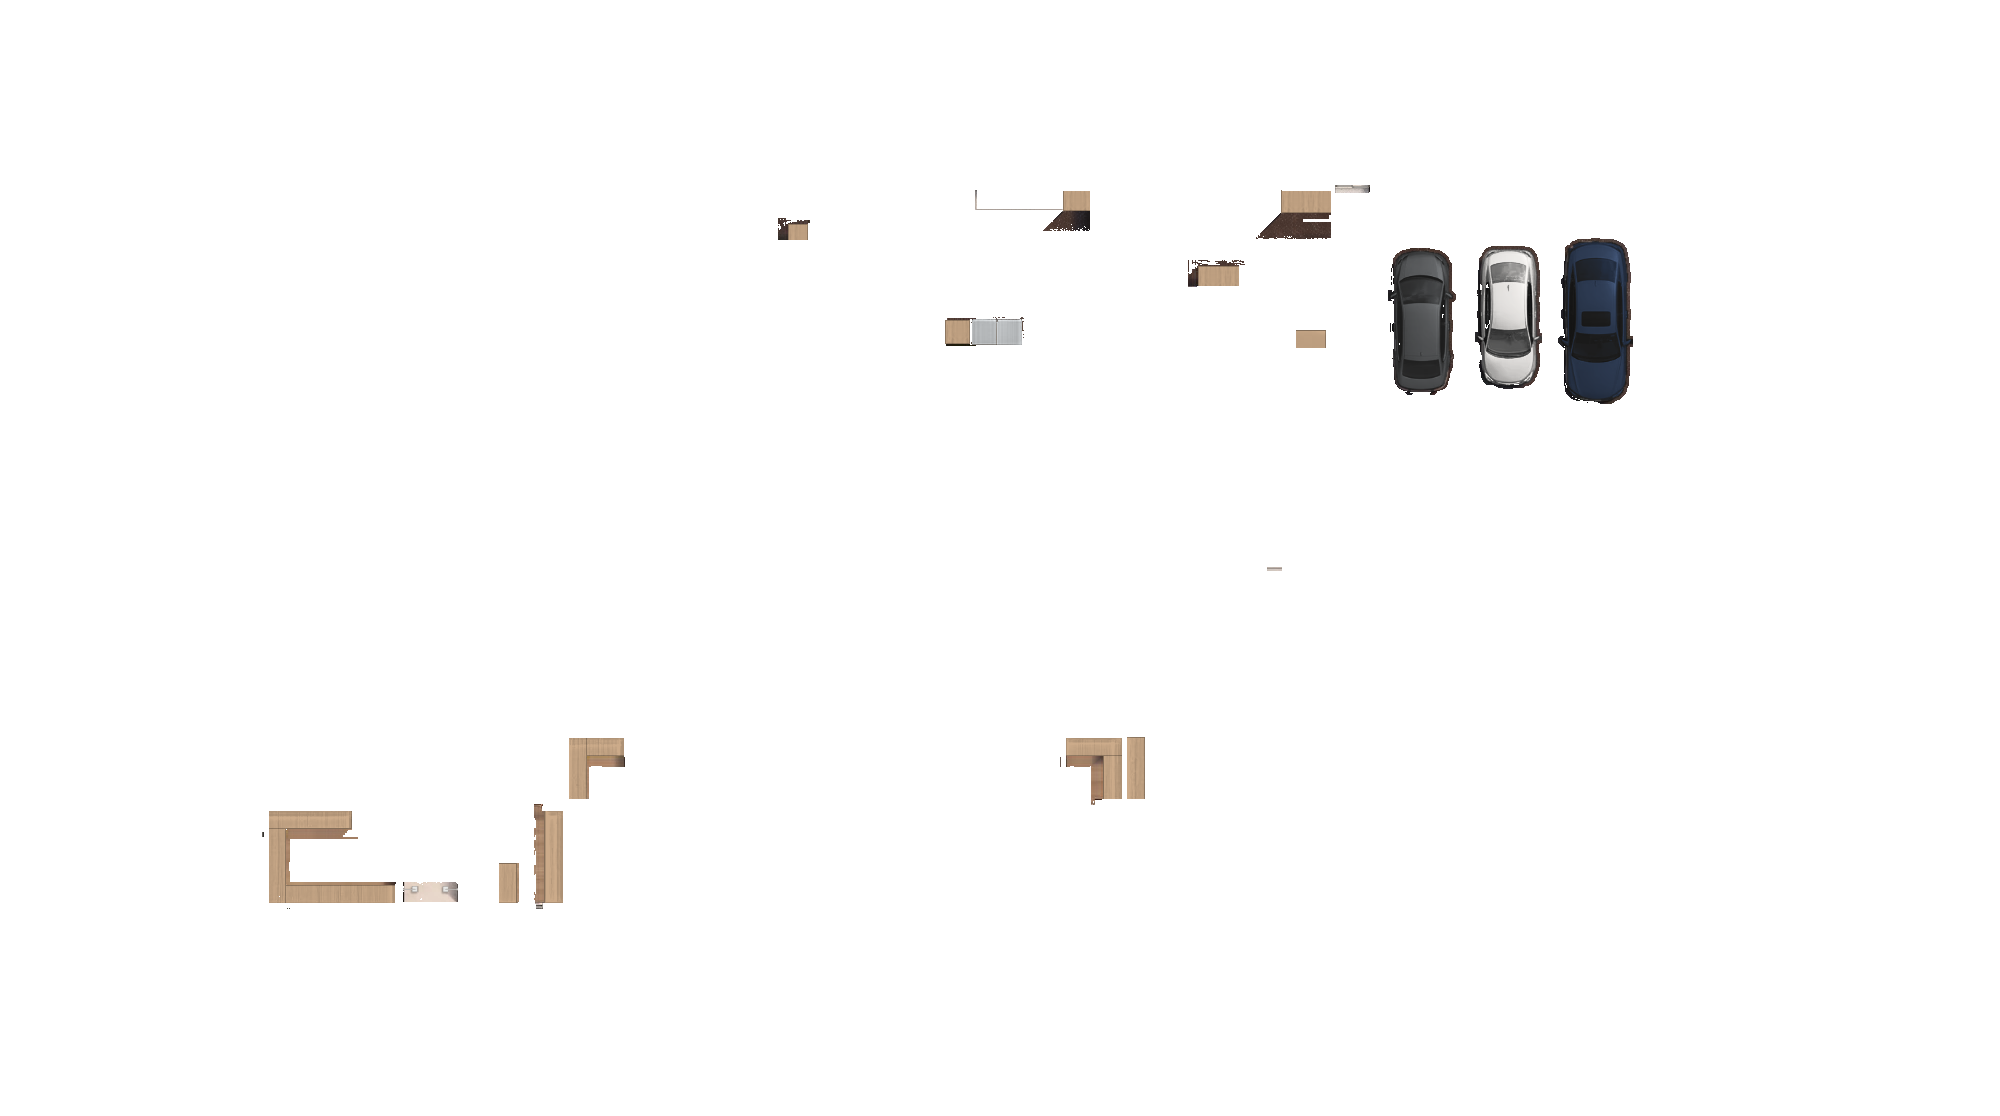
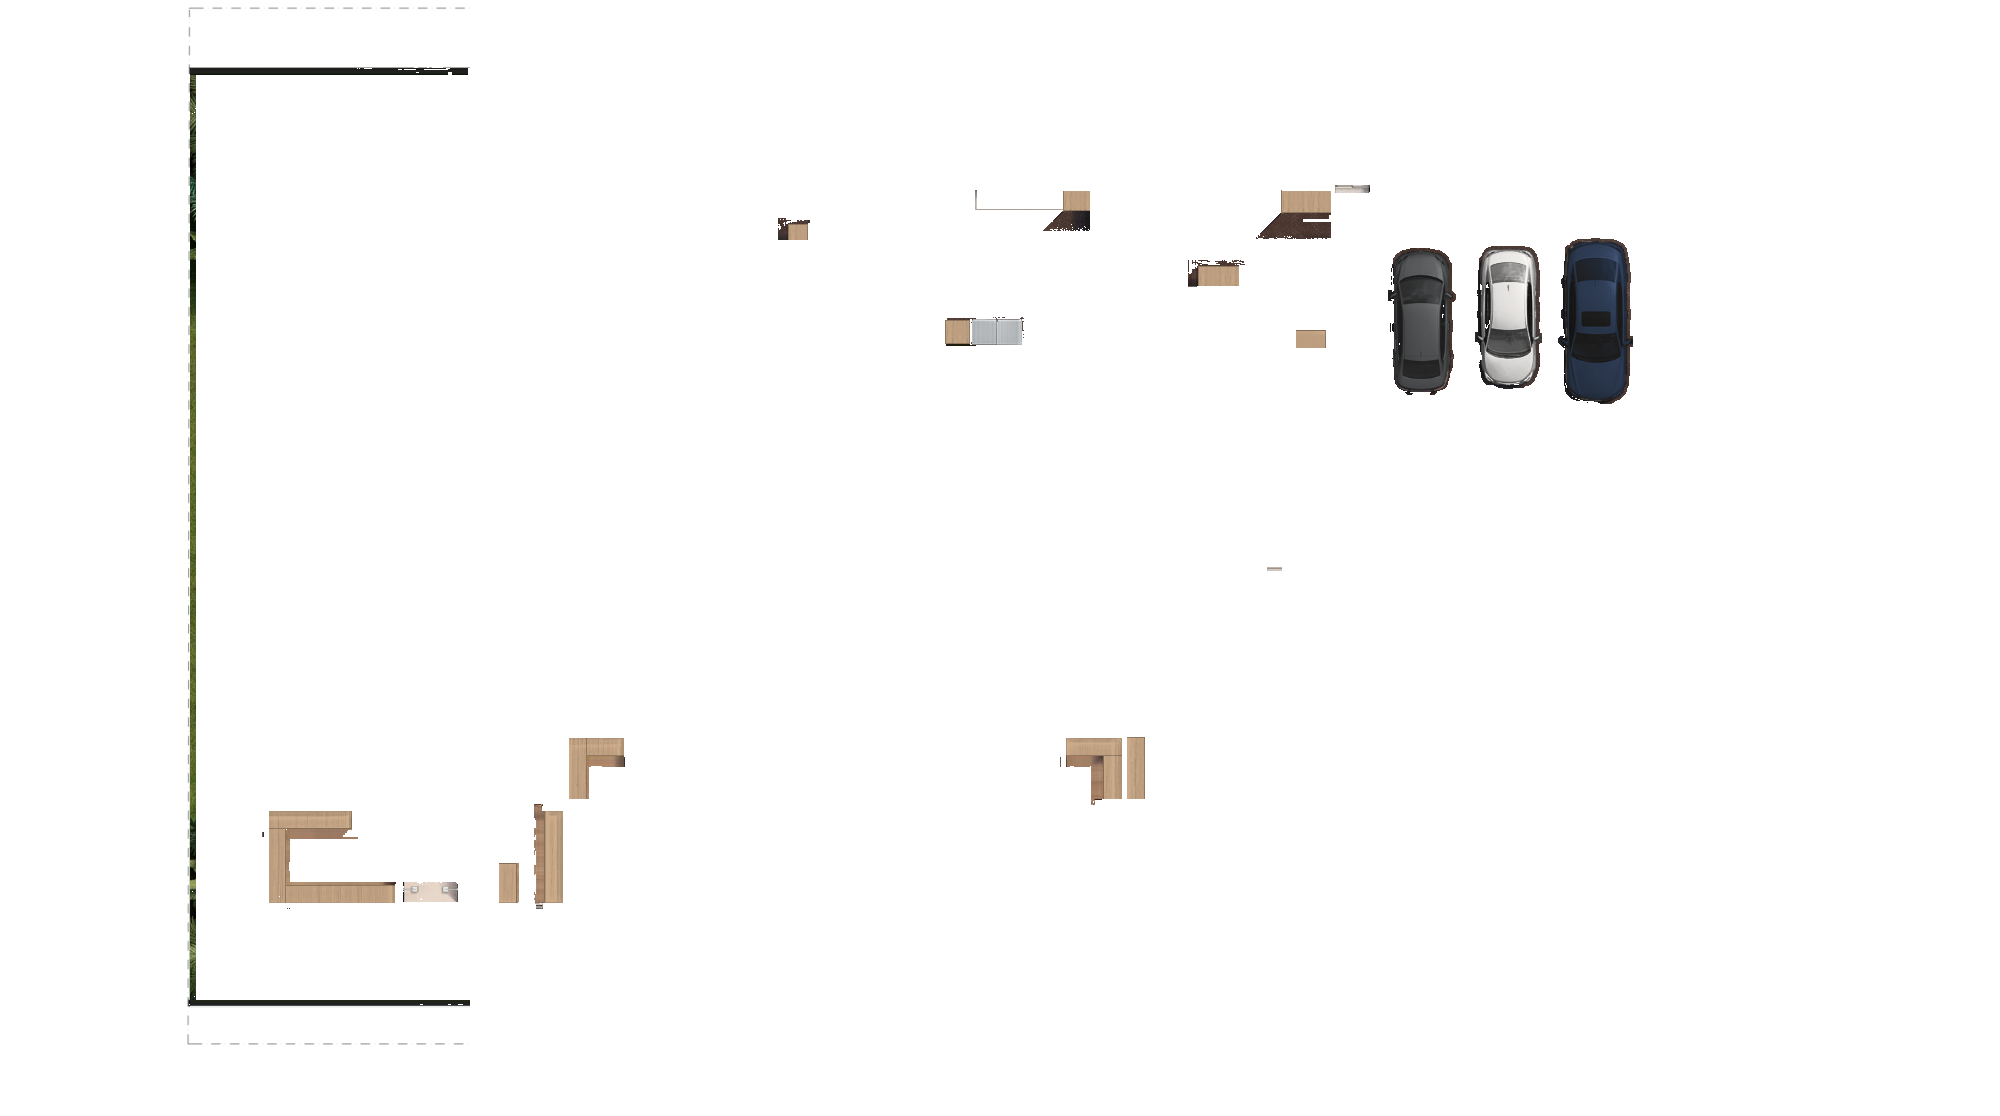
Casa D: erros 1 e 2, muro inventado à esquerda e plantas fora do lote
Claude-Session: https://claude.ai/code/session_01Mm19WX3KoLN1nXMDF5Ay3F

Changed region(s): [[0.093, 0.0609, 0.217, 0.914]]

diff --git a/projetos/POE642_CasaA/scripts/retoque_terreo_casad.py b/projetos/POE642_CasaA/scripts/retoque_terreo_casad.py
@@ -42,6 +42,11 @@ Os itens são corrigidos um a um, na ordem pedida pelo usuário.
    borda misturada), uma curva de tom leva a luminância do prata à da tinta, mantendo a ordem do
    render (vidros mais escuros que a lataria, reflexos); a cor entra só nos tons médios e claros e
    as lanternas ficam.
+8. Erros 1 e 2 da lista (lote): no PDF o lado esquerdo do lote é só a linha tracejada; o motor fez
+   um muro preto. A grama vai até a linha (as colunas do muro vêm das de logo à direita) e fora do
+   lote volta a ser a base (fundo branco e linha tracejada). As plantas dos cantos de cima e de baixo
+   à esquerda, que passavam da linha e dos muros, terminam no lote; os trechos de muro cobertos pelas
+   folhas são refeitos com o perfil de uma coluna limpa do próprio muro.
 
 As coordenadas estão em px do render (2000 x 1116).
 
@@ -187,6 +192,18 @@ CARROS = {
     "quente": 16, "lum_min": 90.0, "claro": 125.0, "fecho": 9, "reflexo": 0.6, "cor_lum": (70.0, 140.0),
     "lanterna": (40, 120),                      # R - B e R mínimos: lanternas e faróis âmbar ficam
 }
+# lote (erros 1 e 2): no PDF o lado esquerdo do lote é só a linha tracejada; o motor fez um muro
+# preto (x 188-195). A grama vai até a linha (as colunas vêm das de logo à direita) e fora do lote
+# volta a ser a base (fundo branco e linha tracejada). As plantas dos cantos de cima e de baixo à
+# esquerda, que passavam da linha e dos muros, terminam no lote: os muros cobertos pelas folhas são
+# refeitos com o perfil de uma coluna limpa do próprio muro
+LOTE = {
+    "x_grama": 190, "faixa_muro": (190, 196), "desloc": 8,
+    "muro_cima": (66, 75), "coluna_cima": 480,
+    "muro_baixo": (1000, 1007), "coluna_baixo": 560,
+    "x_cantos": 470, "y": (0, 1050),
+}
+
 
 def alinhar_base(render):
     """Base 16:9 reduzida e levada ao render por SIFT + afim; também a base chapada (v2)."""
@@ -598,6 +615,25 @@ def carros(out):
     return out
 
 
+def lote(out, base):
+    q = LOTE
+    (c0, c1), (b0, b1) = q["muro_cima"], q["muro_baixo"]
+    xg, xc = q["x_grama"], q["x_cantos"]
+    f0, f1 = q["faixa_muro"]
+    d = q["desloc"]
+    out[c1:b0, f0:f1] = out[c1:b0, f0 + d:f1 + d]                 # muro preto -> grama de logo à direita
+    out[c0:c1, xg - 2:xc] = out[c0:c1, q["coluna_cima"]][:, None]   # muro de cima sem as folhas
+    out[b0:b1, xg - 2:xc] = out[b0:b1, q["coluna_baixo"]][:, None]  # muro de baixo sem as folhas
+    y0, y1 = q["y"]
+    fora = np.zeros(out.shape[:2], bool)
+    fora[y0:y1, :xg] = True
+    fora[y0:c0, :xc] = True
+    fora[b1:y1, :xc] = True
+    out[fora] = base[fora]
+    print(f"    muro da esquerda fora (grama até a linha tracejada); fora do lote: base ({int(fora.sum())} px)")
+    return out
+
+
 def main():
     ap = argparse.ArgumentParser(description=__doc__, formatter_class=argparse.RawDescriptionHelpFormatter)
     ap.add_argument("render", type=Path)
@@ -623,6 +659,10 @@ def main():
     out = porta_gas(out)
     print("[7] carros em tons diferentes")
     out = carros(out)
+
+    print("[8] erros 1 e 2: muro inventado à esquerda e plantas fora do lote")
+    base, _, _ = alinhar_base(orig)
+    out = lote(out, base)
 
     args.saida.mkdir(parents=True, exist_ok=True)
     cv2.imwrite(str(args.saida / f"{args.nome}.png"), out)

diff --git a/projetos/POE642_CasaA/scripts/README.md b/projetos/POE642_CasaA/scripts/README.md
@@ -240,6 +240,7 @@ Mesmo método da Casa C (render retocado sem IA, item por item, na ordem pedida 
 - **Inox:** os dois eletrodomésticos da cozinha mudam só de tom (cor de aço vezes a luminância relativa do render, com riscos verticais sutis); a borda com o granito é mesclada pela luminância.
 - **Porta do abrigo de gás:** a soleira do motor vira o piso do abrigo (espelho) e as duas folhas de correr do PDF são desenhadas em 8x (folha, montantes, contorno e batentes), com sombra curta.
 - **Carros:** curva de tom por carro na silhueta (não-granito: frio ou claro, fechada e preenchida, com a borda), escurecendo ou clareando a luminância do prata; a cor entra só nos tons médios e claros; lanternas (R bem maior que B) ficam.
+- **Lote (erros 1 e 2):** o muro inventado vira grama (colunas de logo à direita); fora do lote, a base alinhada; os muros cobertos por folhas, com o perfil de uma coluna limpa.
 
 ```bash
 python retoque_terreo_casad.py ../../POE642_CasaD/renders/POE642_CasaD_PH_Terreo_v1_render.webp --saida ../../POE642_CasaD/renders --nome POE642_CasaD_PH_Terreo_v1_retocado

diff --git a/projetos/POE642_HANDOFF_SESSAO_LOCAL.md b/projetos/POE642_HANDOFF_SESSAO_LOCAL.md
@@ -373,4 +373,4 @@ python texturizar_base.py Subsolo ../../POE642_CasaC/bases/POE642_CasaC_BASE_Sub
   5. eletrodomésticos da cozinha (os dois volumes ao lado do armário do canto) em inox, com o sombreado do render.
   6. porta de correr do abrigo de gás: a soleira larga do motor sai e entram as duas folhas do PDF, em dois planos.
   7. carros em tons diferentes: grafite (esquerda), branco perolado (meio) e azul-marinho (direita), por curva de tom na silhueta, com vidros, reflexos e lanternas do render.
-
+  8. erros 1 e 2 da lista: o muro preto da esquerda vira grama até a linha tracejada; fora do lote volta a base; os muros de cima e de baixo, cobertos pelas plantas dos cantos, são refeitos com uma coluna limpa.
